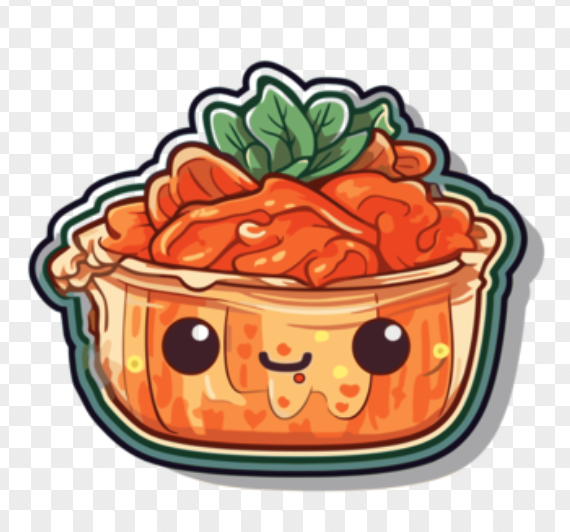
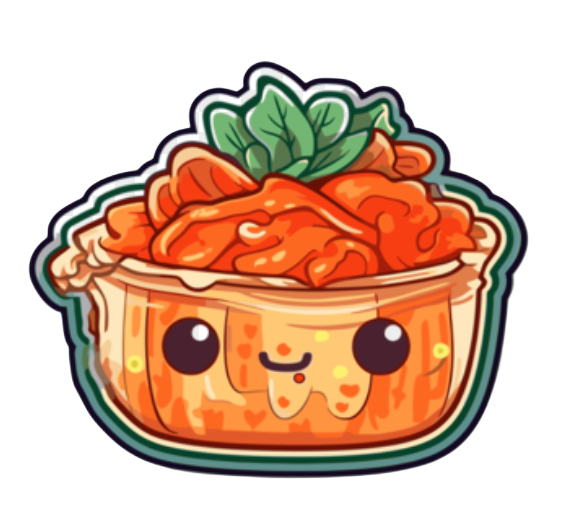
Fan Rating: new image, label rename, reposition on artist page
- Replace kimchi icon with background-removed PNG (Picsart)
- Rename "Kimchi Rating" → "Fan Rating" throughout
- Move rating widget on artist pages: out from under the artist photo,
  now sits below Spotify/Songkick/Seatgeek + Save buttons, above bio
- Left-align icons and text to match surrounding hero content

diff --git a/app/artists/[slug]/page.tsx b/app/artists/[slug]/page.tsx
@@ -110,25 +110,13 @@ export default async function ArtistPage({ params }: { params: Promise<{ slug: s
           </div>
 
           <div style={{ display: "flex", gap: 32, alignItems: "flex-end", flexWrap: "wrap" }}>
-            {/* Artist image + Kimchi Rating stacked beneath it */}
-            <div style={{ display: "flex", flexDirection: "column", alignItems: "center", gap: 14, flexShrink: 0 }}>
-              {artist.imageUrl ? (
-                <img src={artist.imageUrl} alt={artist.stageName} style={{ width: 160, height: 160, borderRadius: "50%", objectFit: "cover", border: "2px solid rgba(255,255,100,0.3)" }} />
-              ) : (
-                <div style={{ width: 160, height: 160, borderRadius: "50%", background: "linear-gradient(135deg, rgba(255,255,100,0.2), rgba(255,255,100,0.05))", border: "2px solid rgba(255,255,100,0.3)", display: "flex", alignItems: "center", justifyContent: "center", fontSize: "4rem" }}>
-                  {isGroup ? "🎤" : artist.type === "SOLOIST" ? "⭐" : "👤"}
-                </div>
-              )}
-              <KimchiRating
-                entityType="artist"
-                entityId={artist.id}
-                isLoggedIn={isLoggedIn}
-                initialAvg={Number((kimchiAgg._avg.rating ?? 0).toFixed(2))}
-                initialCount={kimchiAgg._count.rating}
-                initialUserRating={kimchiUserRow?.rating ?? null}
-                onDark
-              />
-            </div>
+            {artist.imageUrl ? (
+              <img src={artist.imageUrl} alt={artist.stageName} style={{ width: 160, height: 160, borderRadius: "50%", objectFit: "cover", flexShrink: 0, border: "2px solid rgba(255,255,100,0.3)" }} />
+            ) : (
+              <div style={{ width: 160, height: 160, borderRadius: "50%", flexShrink: 0, background: "linear-gradient(135deg, rgba(255,255,100,0.2), rgba(255,255,100,0.05))", border: "2px solid rgba(255,255,100,0.3)", display: "flex", alignItems: "center", justifyContent: "center", fontSize: "4rem" }}>
+                {isGroup ? "🎤" : artist.type === "SOLOIST" ? "⭐" : "👤"}
+              </div>
+            )}
             <div>
               <div style={{ fontSize: "0.7rem", color: "var(--genius-yellow)", letterSpacing: "0.15em", textTransform: "uppercase", marginBottom: 8 }}>
                 {isGroup ? "K-pop Group" : artist.type === "SOLOIST" ? "Solo Artist" : "K-pop Artist"}
@@ -163,6 +151,19 @@ export default async function ArtistPage({ params }: { params: Promise<{ slug: s
 
           <div style={{ marginTop: 16 }}>
             <FavoriteButton entityType="artist" entityId={artist.id} isLoggedIn={isLoggedIn} />
+          </div>
+
+          {/* Fan Rating — below action buttons, above bio */}
+          <div style={{ marginTop: 20 }}>
+            <KimchiRating
+              entityType="artist"
+              entityId={artist.id}
+              isLoggedIn={isLoggedIn}
+              initialAvg={Number((kimchiAgg._avg.rating ?? 0).toFixed(2))}
+              initialCount={kimchiAgg._count.rating}
+              initialUserRating={kimchiUserRow?.rating ?? null}
+              onDark
+            />
           </div>
 
           {artist.bio && (

diff --git a/components/KimchiRating.tsx b/components/KimchiRating.tsx
@@ -57,7 +57,7 @@ export default function KimchiRating({
   const loginColor  = onDark ? "var(--genius-yellow)"   : "#0066cc";
 
   return (
-    <div style={{ textAlign: "center" }}>
+    <div style={{ textAlign: "left" }}>
       {/* Section label */}
       <div style={{
         fontSize: "0.6rem",
@@ -67,12 +67,12 @@ export default function KimchiRating({
         color: labelColor,
         marginBottom: 6,
       }}>
-        Kimchi Rating
+        Fan Rating
       </div>
 
       {/* 5-icon row */}
       <div
-        style={{ display: "flex", gap: 4, justifyContent: "center", alignItems: "center" }}
+        style={{ display: "flex", gap: 4, justifyContent: "flex-start", alignItems: "center" }}
         onMouseLeave={() => setHovered(null)}
       >
         {[1, 2, 3, 4, 5].map((n) => {